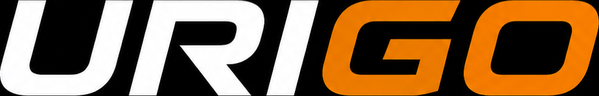
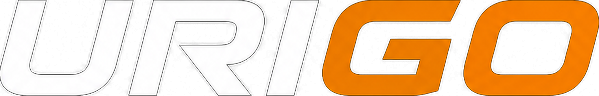
Détoure le logotype et prépare la version 1.0.0 des applications
Le logotype et l'écran de lancement portaient leur propre fond noir, posé sur
un fond noir : deux noirs encodés séparément ne se raccordent jamais tout à
fait, et la découpe se voyait. Ils sont désormais détourés — ils prennent le
fond de l'écran.

Le logotype étant blanc et orange, ce fond doit rester le noir de la marque. Il
est donc présenté dans un bandeau qui court d'un bord à l'autre, dans les deux
applications comme dans l'administration, plutôt que dans une plaque posée au
milieu de la page : une plaque laisse voir sa découpe, un bandeau non.

Les deux applications passent en 1.0.0 (versionCode 1, buildNumber 1) en vue
des premiers paquets Android.

Claude-Session: https://claude.ai/code/session_01Jq8ibgK4MvmZv2AWtVoyvA

diff --git a/apps/mobile-client/src/components.tsx b/apps/mobile-client/src/components.tsx
@@ -22,15 +22,17 @@ const ACCENT = palette.clientAccent;
 const WORDMARK_RATIO = 6.242;
 
 /**
- * Logotype URIGO.
+ * Logotype URIGO, en bandeau d'en-tête.
  *
- * Le logotype est blanc et orange sur fond noir. Il est posé sur une plaque
- * noire plutôt que détouré : c'est ce qui garantit que ses couleurs restent
- * exactement celles de la marque, quel que soit le fond de l'écran.
+ * Le logotype est détouré : il n'apporte pas son propre fond, il se pose sur
+ * celui de l'écran. Comme il est blanc et orange, ce fond doit être le noir de
+ * la marque — d'où un bandeau qui court d'un bord à l'autre plutôt qu'une
+ * plaque posée au milieu de la page : une plaque laisse voir sa découpe, un
+ * bandeau non.
  */
 export function Wordmark({ height = 30 }: { height?: number }) {
   return (
-    <View style={[styles.wordmark, { padding: height * 0.5, borderRadius: height * 0.55 }]}>
+    <View style={styles.wordmark}>
       <Image
         source={require('../assets/wordmark.png')}
         style={{ height, width: height * WORDMARK_RATIO }}
@@ -228,7 +230,14 @@ export function Empty({ children }: { children: ReactNode }) {
 }
 
 const styles = StyleSheet.create({
-  wordmark: { backgroundColor: palette.brandBlack, alignSelf: 'flex-start' },
+  wordmark: {
+    backgroundColor: palette.brandBlack,
+    marginTop: -spacing.lg,
+    marginHorizontal: -spacing.lg,
+    paddingVertical: spacing.xl,
+    paddingHorizontal: spacing.lg,
+    alignItems: 'flex-start',
+  },
   screen: { flex: 1, backgroundColor: palette.surface0 },
   screenInner: { flex: 1 },
   scrollContent: { padding: spacing.lg, paddingBottom: spacing.xxl },

diff --git a/apps/mobile-driver/src/components.tsx b/apps/mobile-driver/src/components.tsx
@@ -22,15 +22,17 @@ const ACCENT = palette.driverAccent;
 const WORDMARK_RATIO = 7.47;
 
 /**
- * Logotype URIGO.
+ * Logotype URIGO, en bandeau d'en-tête.
  *
- * Le logotype est blanc et orange sur fond noir. Il est posé sur une plaque
- * noire plutôt que détouré : c'est ce qui garantit que ses couleurs restent
- * exactement celles de la marque, quel que soit le fond de l'écran.
+ * Le logotype est détouré : il n'apporte pas son propre fond, il se pose sur
+ * celui de l'écran. Comme il est blanc et orange, ce fond doit être le noir de
+ * la marque — d'où un bandeau qui court d'un bord à l'autre plutôt qu'une
+ * plaque posée au milieu de la page : une plaque laisse voir sa découpe, un
+ * bandeau non.
  */
 export function Wordmark({ height = 30 }: { height?: number }) {
   return (
-    <View style={[styles.wordmark, { padding: height * 0.5, borderRadius: height * 0.55 }]}>
+    <View style={styles.wordmark}>
       <Image
         source={require('../assets/wordmark.png')}
         style={{ height, width: height * WORDMARK_RATIO }}
@@ -228,7 +230,14 @@ export function Empty({ children }: { children: ReactNode }) {
 }
 
 const styles = StyleSheet.create({
-  wordmark: { backgroundColor: palette.brandBlack, alignSelf: 'flex-start' },
+  wordmark: {
+    backgroundColor: palette.brandBlack,
+    marginTop: -spacing.lg,
+    marginHorizontal: -spacing.lg,
+    paddingVertical: spacing.xl,
+    paddingHorizontal: spacing.lg,
+    alignItems: 'flex-start',
+  },
   screen: { flex: 1, backgroundColor: palette.surface0 },
   screenInner: { flex: 1 },
   scrollContent: { padding: spacing.lg, paddingBottom: spacing.xxl },

diff --git a/apps/admin/src/styles.css b/apps/admin/src/styles.css
@@ -169,6 +169,18 @@ a:hover {
   padding: 0 10px 18px;
 }
 
+/* Le logotype est détouré : il se pose sur le fond de la page. Comme il est
+   blanc et orange, ce fond doit être le noir de la marque — d'où un bandeau
+   qui court d'un bord à l'autre plutôt qu'une plaque, dont on verrait la
+   découpe. */
+.brand-band {
+  /* Compense le rembourrage de la barre latérale (20px 12px) et celui de
+     .brand (0 10px) pour toucher les bords. */
+  margin: -20px -22px 18px;
+  padding: 18px 22px;
+  background: #000000;
+}
+
 .brand span {
   font-size: 12px;
   color: var(--text-muted);
@@ -618,15 +630,18 @@ label {
    qui préserve ses couleurs en thème clair comme en thème sombre. */
 .brand-logo {
   display: block;
-  box-sizing: content-box;
   height: 22px;
   width: auto;
-  padding: 10px 12px;
-  border-radius: 10px;
-  background: #000000;
+}
+
+.login-card .brand-band {
+  margin: -28px -28px 24px;
+  padding: 22px 28px;
+  border-radius: var(--radius) var(--radius) 0 0;
+  text-align: center;
 }
 
 .login-card .brand-logo {
-  height: 30px;
-  margin: 0 auto 22px;
+  height: 26px;
+  margin: 0 auto;
 }

diff --git a/apps/mobile-driver/app/(auth)/phone.tsx b/apps/mobile-driver/app/(auth)/phone.tsx
@@ -34,8 +34,9 @@ export default function PhoneScreen() {
 
   return (
     <Screen>
+      <Wordmark />
+
       <View style={styles.header}>
-        <Wordmark />
         <Title subtitle="Recevez des courses et suivez vos revenus.">Espace chauffeur</Title>
       </View>
 
@@ -65,7 +66,7 @@ export default function PhoneScreen() {
 }
 
 const styles = StyleSheet.create({
-  header: { marginTop: spacing.xxl, gap: spacing.lg },
+  header: { marginTop: spacing.xl },
   legal: {
     ...typography.caption,
     color: palette.textMuted,

diff --git a/apps/mobile-client/app/(auth)/phone.tsx b/apps/mobile-client/app/(auth)/phone.tsx
@@ -41,8 +41,9 @@ export default function PhoneScreen() {
 
   return (
     <Screen>
+      <Wordmark />
+
       <View style={styles.header}>
-        <Wordmark />
         <Title subtitle="Commandez une course en quelques secondes.">Bienvenue</Title>
       </View>
 
@@ -77,7 +78,7 @@ export default function PhoneScreen() {
 }
 
 const styles = StyleSheet.create({
-  header: { marginTop: spacing.xxl, gap: spacing.lg },
+  header: { marginTop: spacing.xl },
   legal: {
     ...typography.caption,
     color: palette.textMuted,

diff --git a/apps/admin/src/pages/Login.tsx b/apps/admin/src/pages/Login.tsx
@@ -24,7 +24,9 @@ export function Login({ onSuccess }: { onSuccess: (profile: AdminProfile) => voi
   return (
     <div className="login">
       <form className="login-card" onSubmit={submit}>
-        <img src="/urigo.png" alt="URIGO" className="brand-logo" />
+        <div className="brand-band">
+          <img src="/urigo.png" alt="URIGO" className="brand-logo" />
+        </div>
         <h1>Administration</h1>
         <p>URIGO — plateforme de mobilité et de réservation de transport</p>
 

diff --git a/apps/admin/src/App.tsx b/apps/admin/src/App.tsx
@@ -42,7 +42,9 @@ export function App() {
     <div className="app">
       <nav className="sidebar">
         <div className="brand">
-          <img src="/urigo.png" alt="URIGO" className="brand-logo" />
+          <div className="brand-band">
+            <img src="/urigo.png" alt="URIGO" className="brand-logo" />
+          </div>
           <span>Administration</span>
         </div>
 

diff --git a/tools/brand/generate.py b/tools/brand/generate.py
@@ -102,7 +102,7 @@ def _pro_badge(height: int) -> Image.Image:
 
 
 def _with_badge(content: Image.Image, *, gap_ratio: float = 0.10) -> Image.Image:
-    """Logotype suivi de la pastille « PRO », sur le noir de la marque."""
+    """Logotype suivi de la pastille « PRO ». Fond noir, retiré au détourage."""
     badge = _pro_badge(int(content.height * 0.46))
     gap = int(content.height * gap_ratio)
     out = Image.new("RGB", (content.width + gap + badge.width, content.height), BLACK[:3])
@@ -155,16 +155,18 @@ def build_app(app: str, *, driver: bool) -> None:
     mono.paste(sil, (0, 0), sil)
     write(out / "android-icon-monochrome.png", mono)
 
-    # Écran de lancement : fond noir de la marque, symbole seul.
-    write(out / "splash-icon.png", _on_black(icon_source, 512, scale=0.70))
+    # Écran de lancement : symbole détouré, posé par le système sur le noir de
+    # la marque. Détouré et non sur fond noir : deux noirs encodés séparément
+    # ne se raccordent jamais tout à fait.
+    write(out / "splash-icon.png", _cut_out(_on_black(icon_source, 512, scale=0.70)))
 
-    # Logotype affiché dans l'application, sans la signature.
+    # Logotype affiché dans l'application, sans la signature, détouré.
     wordmark = _trimmed(WORDMARK_SRC, WORDMARK_BOX)
     if driver:
         wordmark = _with_badge(wordmark)
     ratio = 132 / wordmark.height
     write(out / "wordmark.png",
-          wordmark.resize((round(wordmark.width * ratio), 132), Image.LANCZOS))
+          _cut_out(wordmark.resize((round(wordmark.width * ratio), 132), Image.LANCZOS)))
 
 
 def main() -> None:
@@ -181,7 +183,7 @@ def main() -> None:
     wordmark = _trimmed(WORDMARK_SRC, WORDMARK_BOX)
     ratio = 96 / wordmark.height
     write(ROOT / "apps" / "admin" / "public" / "urigo.png",
-          wordmark.resize((round(wordmark.width * ratio), 96), Image.LANCZOS))
+          _cut_out(wordmark.resize((round(wordmark.width * ratio), 96), Image.LANCZOS)))
 
 
 if __name__ == "__main__":

diff --git a/tools/brand/README.md b/tools/brand/README.md
@@ -23,8 +23,15 @@ modifier le script ou les originaux, puis régénérer.
 
 - **La signature « BOUGEZ. PARTAGEZ. ARRIVEZ. » est écartée** dans
   l'application (`WORDMARK_BOX` coupe sous le mot). Elle reste dans l'original.
-- **Le logotype garde son fond noir.** Il est blanc et orange ; le détourer
-  obligerait à le recolorer selon le fond, donc à trahir ses couleurs.
+- **Le logotype et l'écran de lancement sont détourés** (`_cut_out`) : ils
+  n'apportent pas leur propre fond, ils se posent sur celui de l'écran. Deux
+  noirs encodés séparément ne se raccordent jamais tout à fait ; un visuel sur
+  fond noir posé sur un fond noir laisse voir sa découpe.
+- **Le fond sur lequel ils se posent doit rester le noir de la marque.** Le
+  logotype est blanc et orange : il est présenté dans un bandeau noir courant
+  d'un bord à l'autre, jamais dans une plaque au milieu de la page. L'icône,
+  elle, garde son fond noir — c'est une image carrée que le système découpe
+  lui-même.
 - **L'icône chauffeur est l'icône client augmentée d'une pastille « PRO »**,
   posée sous le symbole et jamais dessus. Un chauffeur a les deux applications
   installées : elles doivent se lire comme une même famille et se distinguer

diff --git a/docs/applications-mobiles.md b/docs/applications-mobiles.md
@@ -194,9 +194,11 @@ python3 tools/brand/generate.py     # réécrit apps/*/assets/ et apps/admin/pub
 
 Deux points méritent d'être connus :
 
-- **Le logotype reste sur son fond noir.** Il est blanc et orange ; le détourer
-  imposerait de le recolorer selon le fond, donc de trahir ses couleurs. Il est
-  posé sur une plaque noire, dans l'application comme dans l'administration.
+- **Le logotype est détouré** : il n'apporte pas son propre fond, il se pose
+  sur celui de l'écran. Comme il est blanc et orange, ce fond doit être le noir
+  de la marque — d'où un bandeau qui court d'un bord à l'autre plutôt qu'une
+  plaque posée au milieu de la page : une plaque laisse voir sa découpe, un
+  bandeau non. Même principe dans l'administration.
 - **L'orange de la marque (`#fd7e02`) ne porte pas de texte blanc** — moins de
   3:1 de contraste. Il sert d'accent et de repère, jamais de fond à du texte
   clair : les actions principales s'appuient sur le noir de la marque côté
